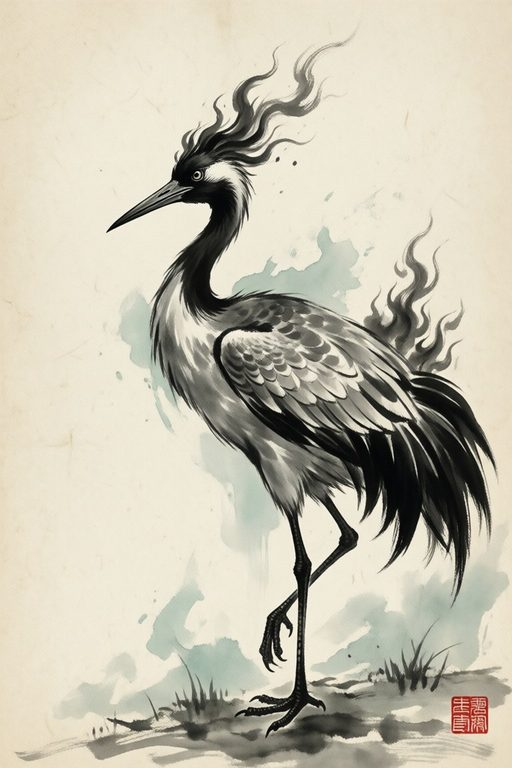
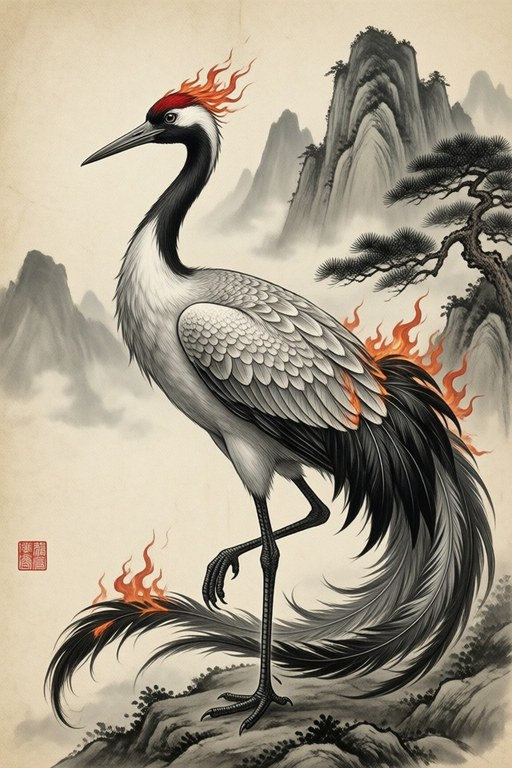
畢方卡圖：換成單腳站立的鶴形版
Claude-Session: https://claude.ai/code/session_01MTZBpPx31Snei4yoZENCFZ

diff --git a/activity/cards/variants_bf.py b/activity/cards/variants_bf.py
@@ -1,0 +1,24 @@
+import base64, io, json, os, sys, time, urllib.request
+from PIL import Image
+D = os.path.dirname(os.path.abspath(__file__))
+env = {}
+for l in open(os.path.join(D, "../../.env"), encoding="utf8"):
+    if "=" in l and not l.startswith("#"):
+        k, v = l.strip().split("=", 1); env[k] = v.strip().strip('"\'')
+BASE, KEY = env["LLM_BASE_URL"].rstrip("/"), env["LLM_API_KEY"]
+STYLE = ("traditional Chinese ink wash painting, sumi-e on aged xuan rice paper, expressive black ink brushwork with soft gray washes, "
+         "vertical portrait composition, subtle paper grain, one small red seal stamp, no text, no letters, no border, ")
+V = [
+ "Bifang, the mythical fire crane of Chinese legend, an elegant long-necked crane-like bird with a sharp beak, standing gracefully on a single slender leg exactly like a resting crane with the other leg naturally tucked up under its feathers, so the pose looks natural and balanced, long flowing tail feathers, small ink flames licking along its wings and tail, red-tinged crest, dark pine mountain in mist behind it, anatomically coherent bird",
+ "Bifang, the one-legged fire bird of Chinese mythology, a majestic crane with long neck, white and blue-gray feathers edged with red flame patterns, wings half spread, balanced on its single leg on a rock, small ink-wash flames curling from its wing tips, elegant natural bird anatomy, misty mountains, graceful and sacred",
+]
+for k, p in enumerate(V, 1):
+    out = os.path.join(D, f"variants/bf_{k}.jpg"); t0 = time.time()
+    for attempt in range(3):
+        try:
+            req = urllib.request.Request(BASE + "/images/generations", json.dumps({"model": "draw-qwen-fast", "prompt": STYLE + p, "size": "768x1152", "n": 1}).encode(), {"Authorization": "Bearer " + KEY, "Content-Type": "application/json"})
+            it = json.load(urllib.request.urlopen(req, timeout=400))["data"][0]
+            raw = base64.b64decode(it["b64_json"]) if it.get("b64_json") else urllib.request.urlopen(it["url"]).read()
+            Image.open(io.BytesIO(raw)).convert("RGB").save(out, quality=88); print(k, f"{time.time()-t0:.0f}s", flush=True); break
+        except Exception as e:
+            print(k, "err", str(e)[:100], flush=True); time.sleep(5)
